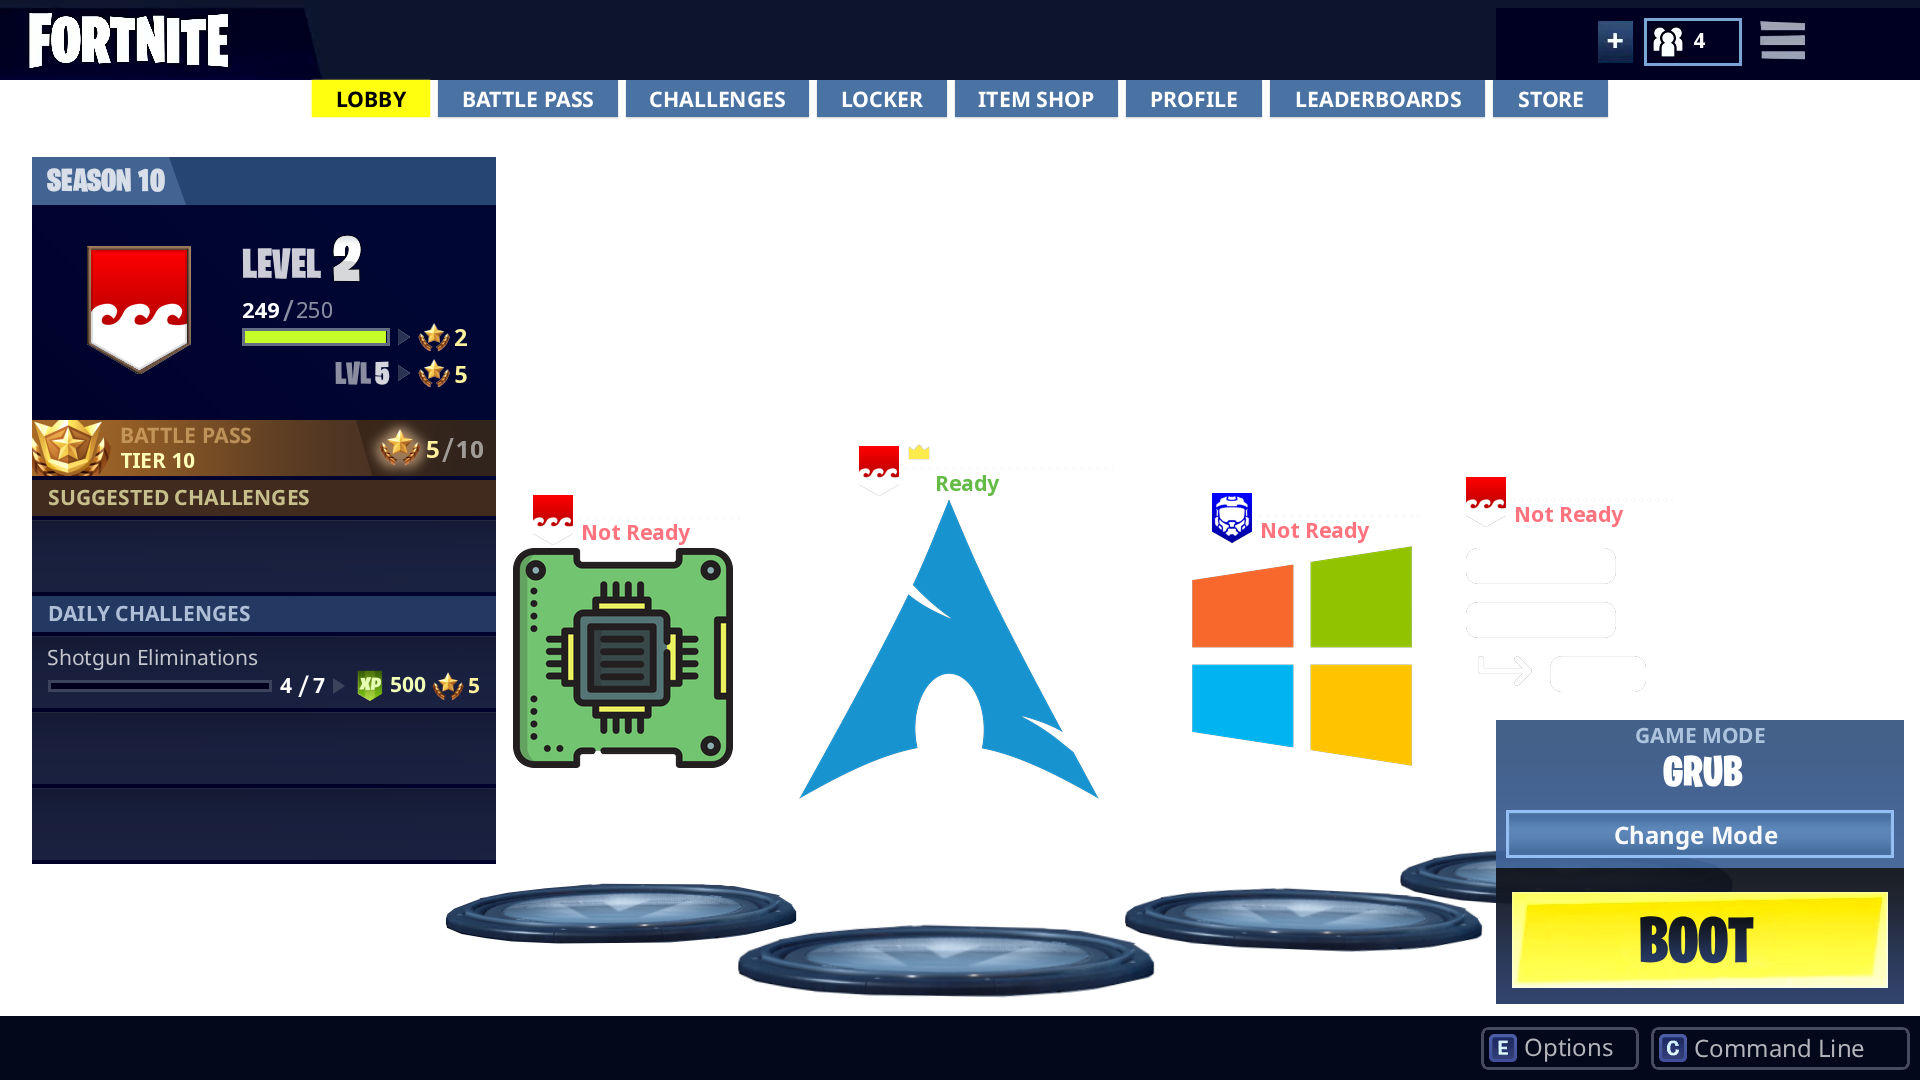
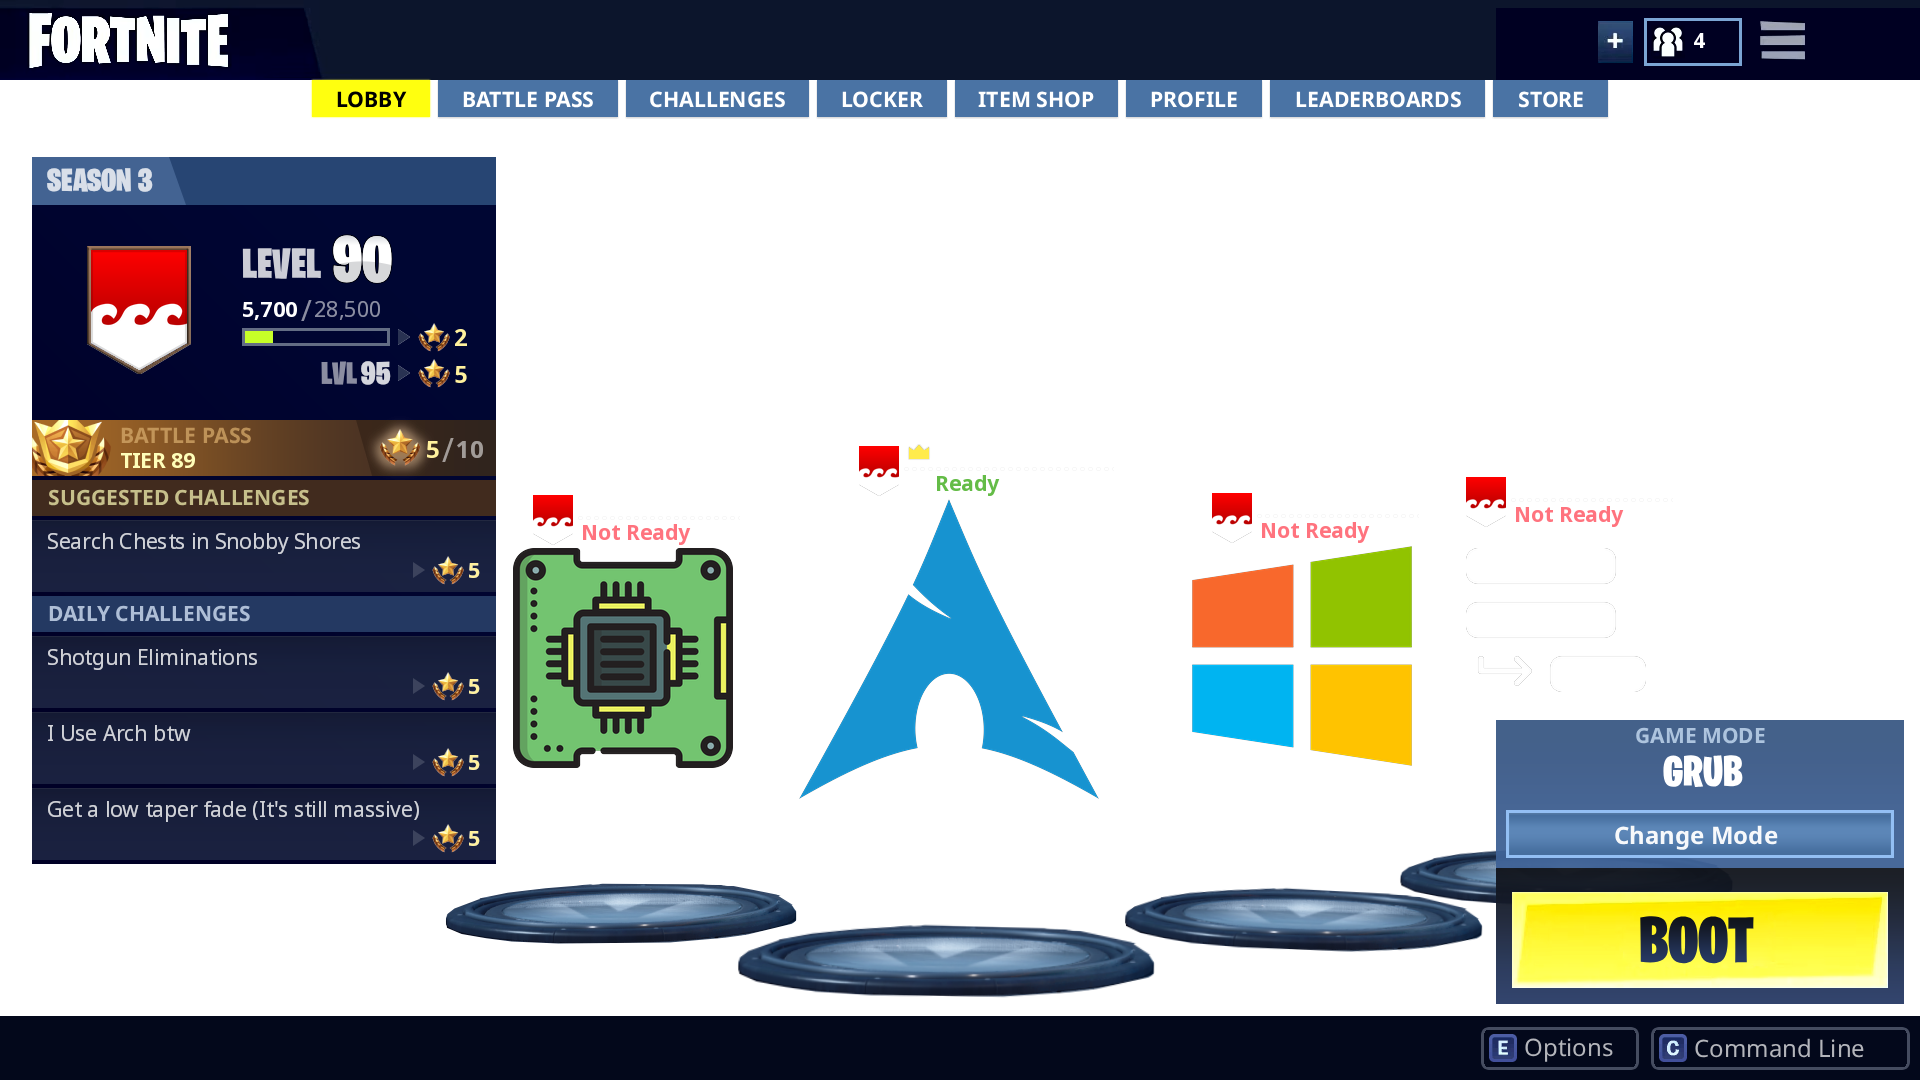
Adding missions

diff --git a/scripts/modifiers/insert_missions.py b/scripts/modifiers/insert_missions.py
@@ -1,0 +1,100 @@
+import os
+from PIL import Image, ImageDraw, ImageFont
+from helpers.utils import FONTS_DIR, IMAGES_DIR, load_image
+
+
+def add_missions(config, img):
+    missions = config.get("missions", {})
+    star_icon = load_image(os.path.join(IMAGES_DIR, "level-star-exp.png")).convert("RGBA")
+    arrow_icon = load_image(os.path.join(IMAGES_DIR, "level-arrow.png")).convert("RGBA")
+
+    for mission_type, mission_info in missions.items():
+        add_mission(mission_type, img, mission_info, star_icon, arrow_icon)
+
+    return img
+
+
+def add_mission(mission_type, img, config, star_icon, arrow_icon): 
+    # Initialize the drawing context
+    draw = ImageDraw.Draw(img)
+    
+    container_width = 464
+    is_daily = mission_type.startswith("daily")
+    # 72 height of the container + 4 pixels of margin
+    ref_point = (32,520) if not is_daily else (32, 636 + (int(mission_type[-1]) - 1) * (72 + 4))
+    
+    font = ImageFont.truetype(os.path.join(FONTS_DIR, "NotoSans", "NotoSans-Regular.ttf"), 21.1)
+
+    text_position = (ref_point[0] + 16, ref_point[1] + 12)        
+    max_text_width = 432
+    
+    # --- STEP 1: Draw the Title ---
+    mission_title = config.get("description", "Mission Title")
+    draw_title = mission_title
+    
+    while draw.textlength(draw_title, font=font) > max_text_width and len(draw_title) > 0:
+        draw_title = draw_title[:-1]
+        
+    if draw_title:
+        title_color = (255, 255, 255, 191) 
+        (left, top, right, bottom) = font.getbbox(draw_title)
+
+        text_overlay = Image.new("RGBA", img.size, (0, 0, 0, 0))
+        overlay_draw = ImageDraw.Draw(text_overlay)
+        
+        text_x = text_position[0] - 1
+        text_y = text_position[1] - top + 1
+        
+        overlay_draw.text((text_x, text_y), draw_title, font=font, fill=title_color)
+        img.paste(text_overlay, (0, 0), text_overlay)
+    
+    # --- STEP 2: Draw Star Number and Icon ---
+    font_star = ImageFont.truetype(os.path.join(FONTS_DIR, "NotoSans", "NotoSans-Bold.ttf"), 21)
+    star_number_text = "5"
+    star_number_color = "#fff19d"
+    
+    (left, top, right, bottom) = font_star.getbbox(star_number_text)
+    text_width = right - left
+    text_height = bottom - top
+    
+    star_number_x = ref_point[0] + container_width - 16 - text_width
+    
+    star_number_y = ref_point[1] + 43 - top  
+    star_number_position = (star_number_x, star_number_y)
+    
+    text_overlay = Image.new("RGBA", img.size, (0, 0, 0, 0))
+    overlay_draw = ImageDraw.Draw(text_overlay)
+    
+    overlay_draw.text(star_number_position, star_number_text, font=font_star, fill=star_number_color)
+    img.paste(text_overlay, (0, 0), text_overlay)
+
+    star_icon_x = star_number_x - 4 - star_icon.width
+    
+    star_center_y = ref_point[1] + 43 + (text_height / 2)
+    star_icon_y = int(star_center_y - (star_icon.height / 2))
+    
+    img.paste(star_icon, (int(star_icon_x), star_icon_y), star_icon)
+    # --- STEP 3: Draw Arrow Icon ---
+    # Distance is 7 px to the left of the star icon
+    arrow_icon_x = star_icon_x - 7 - arrow_icon.width
+    arrow_icon_y = int(star_center_y - (arrow_icon.height / 2))
+    
+    colored_arrow = Image.new("RGBA", arrow_icon.size, "#3c435d")
+    
+    img.paste(colored_arrow, (int(arrow_icon_x), arrow_icon_y), arrow_icon)
+    # ------------------------------
+    # TODO
+    # Then draw the current-stars/total-stars 7 px to the left. 
+    # For the numbers use font with 21.1
+    # For the slash use font with 30
+    # Center the numbers around the slash
+    # Distance from slash to number on the rigth is 4 px and to the left 6 px
+
+    font = ImageFont.truetype(os.path.join(FONTS_DIR, "NotoSans", "NotoSans-Bold.ttf"), 21.1)
+
+    font = ImageFont.truetype(os.path.join(FONTS_DIR, "NotoSans", "NotoSans-Regular.ttf"), 30)
+
+
+    # Draw rectangle of 3 px border 3c435d color and fill with 00001d, width will be dynamic
+    # Distanced to the rigth number by 8 px.
+    # Should have the remaining width, with spacing of 16 px to the left of the container. Height should be 44 px down from the top.

diff --git a/scripts/core/setup_theme.py b/scripts/core/setup_theme.py
@@ -30,6 +30,29 @@ def run():
     config["background"] = background
     config["progress-bar-emoticon"] = progress_bar_emoticon
     config["season"] = 3
+    
+    config["missions"] = {
+        "battlepass" : {
+            "description": "I Use Arch btw",
+            "current-stars": 1,
+            "total-stars": 1
+        },
+        "daily1" : {
+            "description": "Search 7 Chests in Risky Reels",
+            "current-stars": 1,
+            "total-stars": 7
+        },
+        "daily2" : {
+            "description": "I Use Arch btw",
+            "current-stars": 2,
+            "total-stars": 3
+        },
+        "daily3" : {
+            "description": "Get a low taper fade (It's still massive)",
+            "current-stars": 0,
+            "total-stars": 1
+        },
+    }
 
     config["entries"] = entries
 

diff --git a/scripts/core/generate_theme.py b/scripts/core/generate_theme.py
@@ -2,7 +2,7 @@ from helpers.utils import BASE_IMAGE, load_config, load_image, save_config, CACH
 from modifiers.insert_emoticon import change_emoticon
 from scripts.modifiers.insert_icon import generate_final_images
 from scripts.modifiers.insert_season import insert_season
-
+from scripts.modifiers.insert_missions import add_missions
 def run():
     print("Starting Theme Generation ...")
 
@@ -16,9 +16,11 @@ def run():
     # Add season text to base image
     base_image = insert_season(config, base_image)
 
+    # Add missions
+    add_missions(config, base_image)
+
     # Generate cached images 
     generate_final_images(config, base_image)
-
 
     # Change progress bar emoticon
     change_emoticon(config)

diff --git a/scripts/modifiers/insert_level.py b/scripts/modifiers/insert_level.py
@@ -294,11 +294,11 @@ def add_level_details(img, entry):
         (left_mile, top_mile, right_mile, _) = font.getbbox(milestone_str)
         mile_width = right_mile - left_mile
 
-        #  Calculate exact starting X coordinate to guarantee a 7px gap
+        #  Calculate exact starting X coordinate to guarantee a 6px gap
         # Total block size = [LVL width] + [4px gap] + [Milestone width]
         total_text_width = lvl_width + 4 + mile_width
         
-        start_x = arrow_pos_second[0] - 7 - total_text_width
+        start_x = arrow_pos_second[0] - 6 - total_text_width
         
         base_y = reference_point[1] + 33
 
